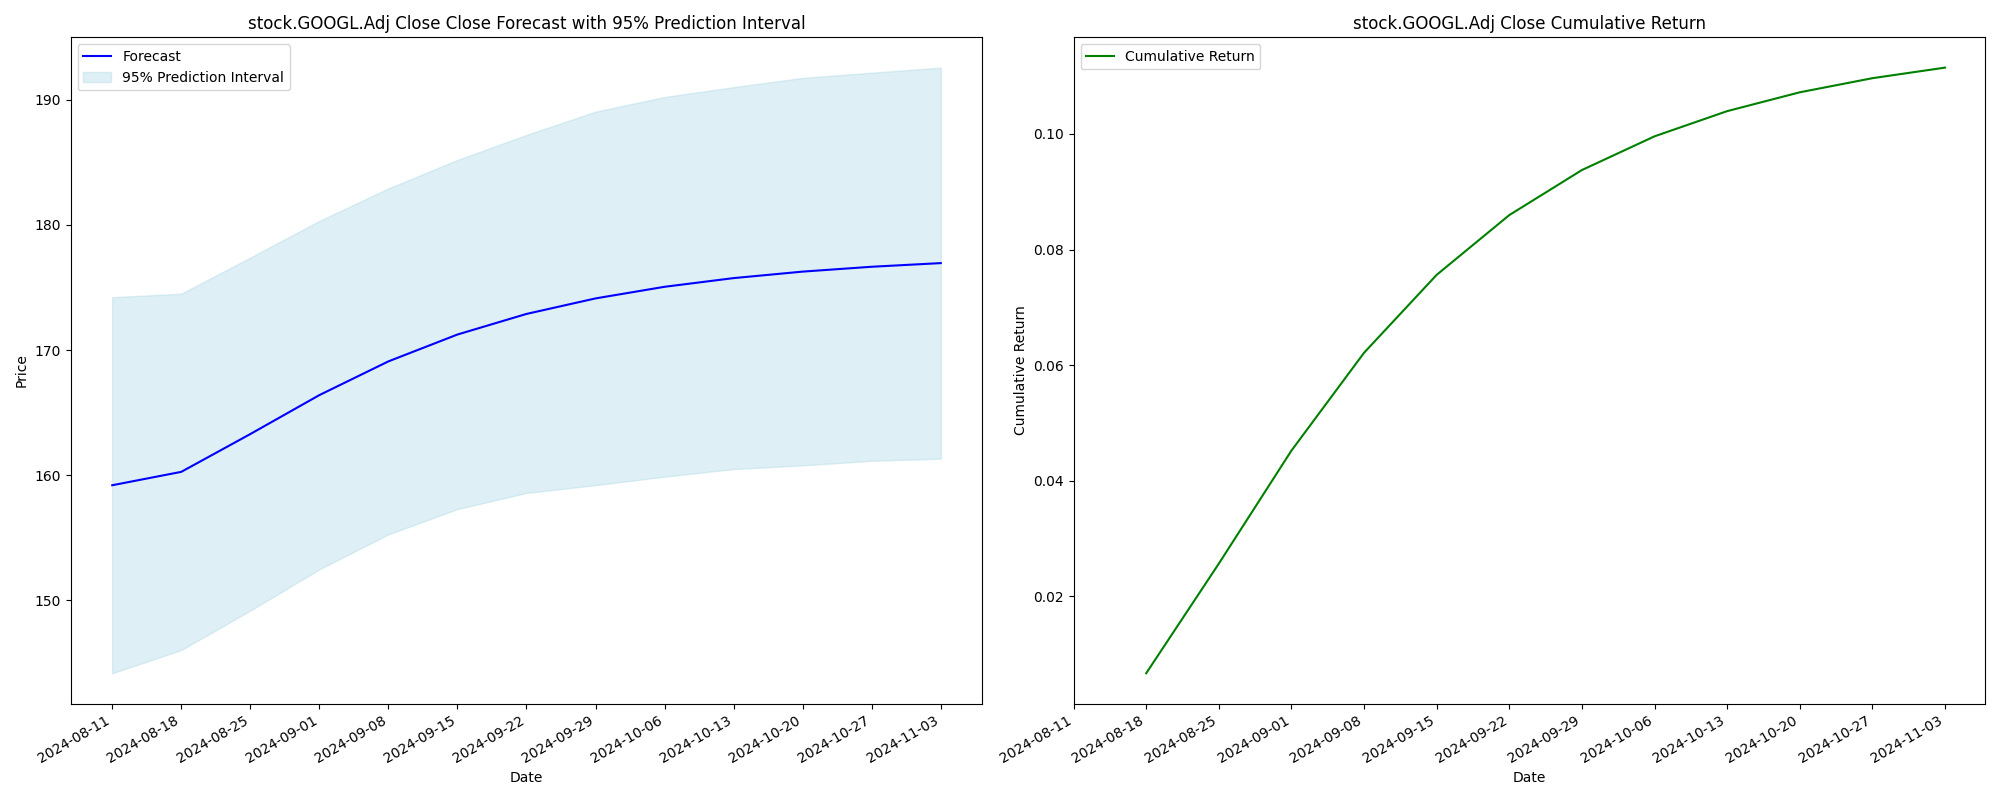
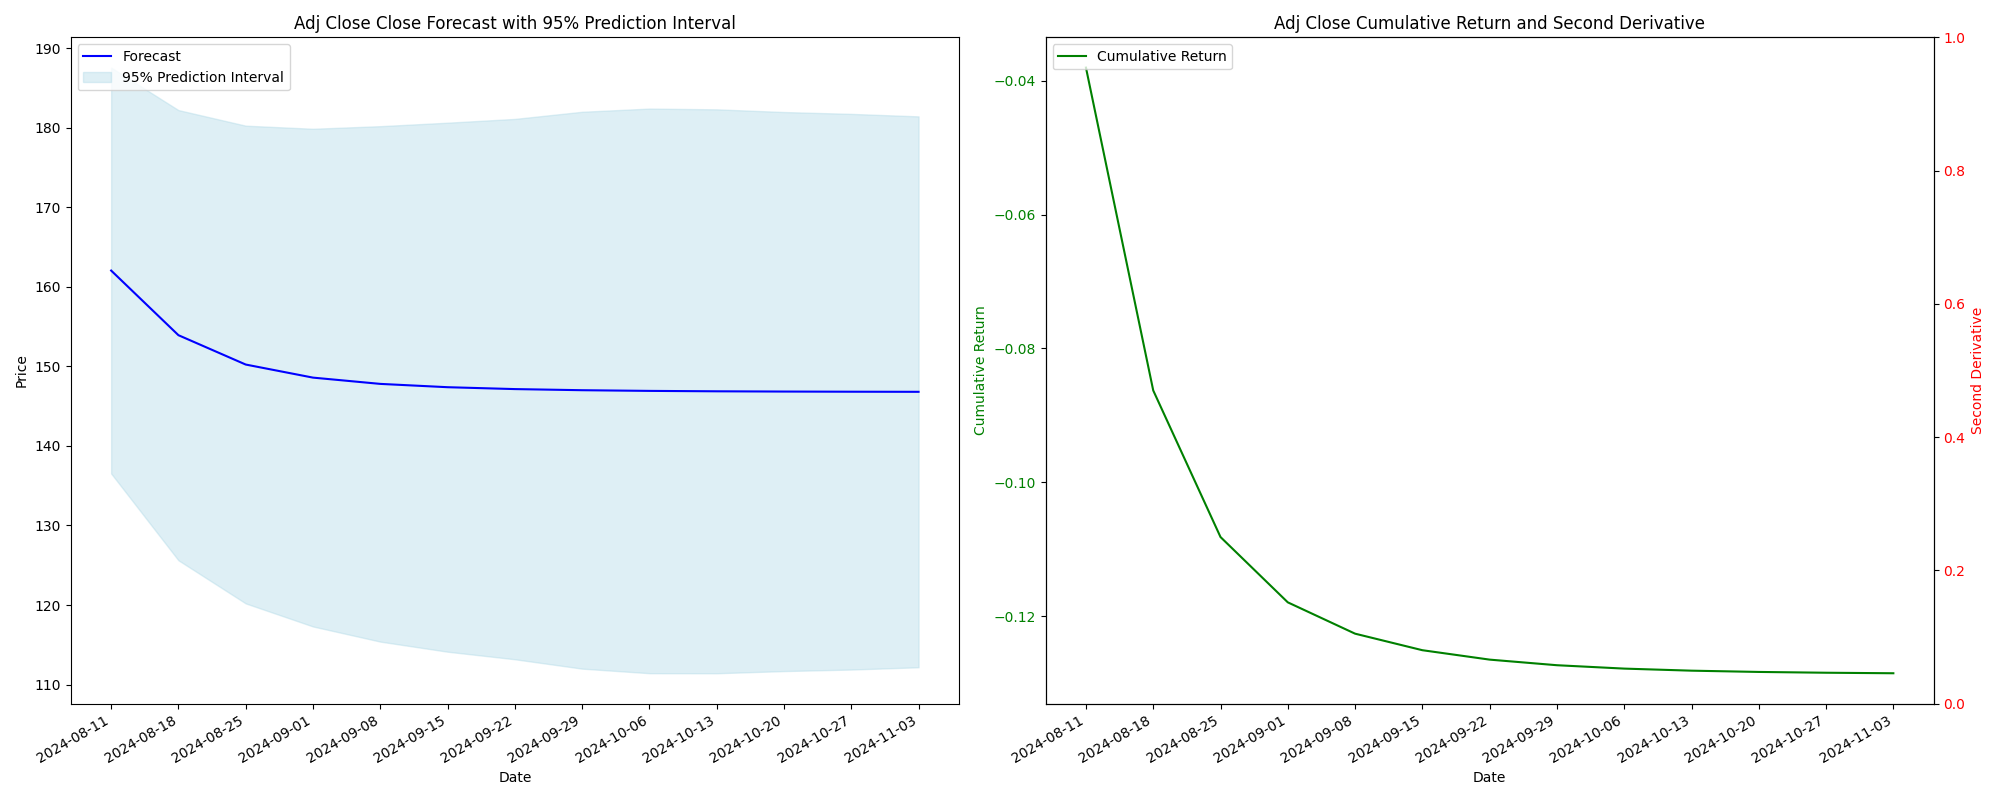
removed AdjClose, kept only Adj Close

diff --git a/CNN_LSTM/visualization.py b/CNN_LSTM/visualization.py
@@ -20,53 +20,13 @@ from constants import *
 
 import matplotlib.dates as mdates
 
-def plot_predictions_with_intervals(y_pred, lower_bound_res, upper_bound_res, dates, feature_names):
+def plot_predictions_with_intervals_and_returns(y_pred, lower_bound_res, upper_bound_res, dates, feature_names, last_actual_price):
     forecast_length = len(dates)
     y_pred = y_pred[-forecast_length:]
     lower_bound_res = lower_bound_res[-forecast_length:]
     upper_bound_res = upper_bound_res[-forecast_length:]
     dates = dates[-forecast_length:]
-
     assert len(dates) == forecast_length, f"Expected {forecast_length} dates, got {len(dates)}"
-
-    n_features = y_pred.shape[1]
-    fig, axes = plt.subplots(n_features, 1, figsize=(12, 6*n_features), sharex=True)
-    
-    if n_features == 1:
-        axes = [axes]
-    
-    for i, (ax, feature) in enumerate(zip(axes, feature_names)):
-        y_pred_trimmed = y_pred[:, i]
-        
-        # Plot the forecast line
-        ax.plot(dates, y_pred_trimmed, label='Forecast', color='blue')
-        
-        # Plot 95% prediction intervals
-        ax.fill_between(dates, lower_bound_res[:, i], upper_bound_res[:, i], color='lightblue', alpha=0.4, label='95% Prediction Interval')
-        
-        ax.set_title(f'{feature} Close Forecast with 95% Prediction Interval')
-        ax.set_xlabel('Date')
-        ax.set_ylabel('Value')
-        ax.legend(loc='upper left')
-        
-        # Set x-axis ticks and format
-        ax.set_xticks(dates)
-        ax.xaxis.set_major_formatter(mdates.DateFormatter('%Y-%m-%d'))
-
-    plt.gcf().autofmt_xdate()  # Rotate date labels
-    plt.tight_layout()
-    plt.savefig('forecast_intervals.png')
-    plt.close(fig)  # Close the figure to free up memory
-
-def plot_predictions_with_intervals_and_returns(y_pred, lower_bound_res, upper_bound_res, dates, feature_names):
-    forecast_length = len(dates)
-    y_pred = y_pred[-forecast_length:]
-    lower_bound_res = lower_bound_res[-forecast_length:]
-    upper_bound_res = upper_bound_res[-forecast_length:]
-    dates = dates[-forecast_length:]
-
-    assert len(dates) == forecast_length, f"Expected {forecast_length} dates, got {len(dates)}"
-
     n_features = y_pred.shape[1]
     fig, axes = plt.subplots(n_features, 2, figsize=(20, 8*n_features), sharex='col')
     
@@ -79,41 +39,54 @@ def plot_predictions_with_intervals_and_returns(y_pred, lower_bound_res, upper_b
         # Plot 1: Price Forecast with Intervals
         ax_price.plot(dates, y_pred_trimmed, label='Forecast', color='blue')
         ax_price.fill_between(dates, lower_bound_res[:, i], upper_bound_res[:, i], color='lightblue', alpha=0.4, label='95% Prediction Interval')
-        
-        # Calculate rate of change
-        roc = pd.Series(y_pred_trimmed).pct_change()
-        # Calculate moving average of rate of change (you can adjust the window size)
-        roc_ma = roc.rolling(window=5).mean()
-        
-        # Find crossover points
-        crossover = np.where((roc.shift(1) > roc_ma.shift(1)) & (roc <= roc_ma))[0]
-        
-        # Draw vertical lines at crossover points
-        for idx in crossover:
-            if idx < len(dates):
-                ax_price.axvline(x=dates[idx], color='red', linestyle='--', alpha=0.7)
-                ax_return.axvline(x=dates[idx], color='red', linestyle='--', alpha=0.7)
-        
         ax_price.set_title(f'{feature} Close Forecast with 95% Prediction Interval')
         ax_price.set_xlabel('Date')
         ax_price.set_ylabel('Price')
         ax_price.legend(loc='upper left')
         
-        # Plot 2: Cumulative Returns
-        returns = pd.Series(y_pred_trimmed).pct_change()
-        cumulative_returns = (1 + returns).cumprod() - 1
-        ax_return.plot(dates, cumulative_returns, label='Cumulative Return', color='green')
+        # Plot 2: Cumulative Returns and Second Derivative
+        # Calculate cumulative returns based on the last actual price
+        cumulative_returns = (y_pred_trimmed - last_actual_price) / last_actual_price
         
-        ax_return.set_title(f'{feature} Cumulative Return')
+        # Calculate the second derivative
+        second_derivative = pd.Series(cumulative_returns).diff().diff()
+        
+        # Plot cumulative returns
+        ax_return.plot(dates, cumulative_returns, label='Cumulative Return', color='green')
+        ax_return.set_ylabel('Cumulative Return', color='green')
+        ax_return.tick_params(axis='y', labelcolor='green')
+        
+        # Create a twin axis for the second derivative
+        ax_second_derivative = ax_return.twinx()
+        ax_second_derivative.set_ylabel('Second Derivative', color='red')
+        ax_second_derivative.tick_params(axis='y', labelcolor='red')
+        
+        # Find the inflection point (where second derivative becomes negative)
+        inflection_points = second_derivative[second_derivative < 0].index
+        if len(inflection_points) > 0:
+            inflection_point = inflection_points[0]
+            inflection_date = dates[inflection_point]
+            ax_return.axvline(x=inflection_date, color='red', linestyle='--', label='Inflection Point')
+            
+            # Adjust the y-axis of the second derivative to center 0 at the inflection point
+            max_abs_value = max(abs(second_derivative.min()), abs(second_derivative.max()))
+            ax_second_derivative.set_ylim(-max_abs_value, max_abs_value)
+            
+            # Add a horizontal line at y=0 for the second derivative
+            ax_second_derivative.axhline(y=0, color='gray', linestyle=':', alpha=0.7)
+        
+        ax_return.set_title(f'{feature} Cumulative Return and Second Derivative')
         ax_return.set_xlabel('Date')
-        ax_return.set_ylabel('Cumulative Return')
-        ax_return.legend(loc='upper left')
+        
+        # Combine legends
+        lines_return, labels_return = ax_return.get_legend_handles_labels()
+        ax_return.legend(lines_return, labels_return, loc='upper left')
         
         # Format x-axis for both plots
         for ax in [ax_price, ax_return]:
             ax.set_xticks(dates)
             ax.xaxis.set_major_formatter(mdates.DateFormatter('%Y-%m-%d'))
-
+    
     plt.gcf().autofmt_xdate()  # Rotate date labels
     plt.tight_layout()
     plt.savefig('forecast_intervals_and_returns.png')

diff --git a/CNN_LSTM/evaluation.py b/CNN_LSTM/evaluation.py
@@ -2,7 +2,13 @@ from .training import train_model
 from .CNN_TS import LSTMEncoderDecoderAttention
 from imports import *
 from constants import *
-from .visualization import plot_predictions_with_intervals, plot_predictions_with_intervals_and_returns
+from .visualization import plot_predictions_with_intervals_and_returns
+
+def translate_column_name(column_name):
+    # Split the string into its components
+    components = column_name.split('.')
+    # Return as a tuple matching the DataFrame's multi-level index structure
+    return tuple(components)
 
 # Function to split sequence for LSTM
 def split_sequence(sequence, look_back, forecast_range, forecast_indices):
@@ -260,14 +266,22 @@ def backtest_and_evaluate(study, combined_df, scaler, features, forecast_feature
     last_date = combined_df.index[-1]
     date_range = pd.date_range(start=last_date, periods=FORECAST_RANGE, freq='W')
 
-    plot_predictions_with_intervals(
-        yhat_forecast_inverse, 
-        lower_bounds_residuals, 
-        upper_bounds_residuals, 
-        date_range, 
-        forecast_features
+    # Use this to get the last actual price
+    # Translate it
+    # Translate the forecast feature name
+    forecast_feature_tuple = translate_column_name(forecast_features[0])
+
+    # Get the last actual price
+    last_actual_price = combined_df[forecast_feature_tuple].iloc[-FORECAST_RANGE-1]
+
+    # Call the plotting function
+    plot_predictions_with_intervals_and_returns(
+        yhat_forecast_inverse,  # This is y_pred in the function signature
+        lower_bounds_residuals,  # This is lower_bound_res
+        upper_bounds_residuals,  # This is upper_bound_res
+        date_range,  # This is dates
+        [forecast_feature_tuple[2]],  # This is feature_names, which should be ['Adj Close']
+        last_actual_price
     )
-    plot_predictions_with_intervals_and_returns(yhat_forecast_inverse, lower_bounds_residuals, upper_bounds_residuals, date_range, forecast_features)
-    #plot_predictions_with_intervals(yhat_forecast_inverse, lower_bounds_residuals, upper_bounds_residuals, date_range, forecast_features, std_devs_time_step)
 
 

diff --git a/constants.py b/constants.py
@@ -10,9 +10,10 @@ start_date = end_date - timedelta(days=365*5)  # 5 years of data
 
 debug = False
 
-NUM_SIMULATIONS = 3  # or any other number you prefer
-N_TRIALS = 10
-NUM_EPOCHS = 20
+NUM_SIMULATIONS = 10  # or any other number you prefer
+#should be beased on len features
+N_TRIALS = 40
+NUM_EPOCHS = 50
 LOOK_BACK = 156
 FORECAST_RANGE = 13
 
@@ -44,44 +45,22 @@ tickers_combined = [*tickers_all,*tickers_price]
 # Define your parameters
 forecast_features = ['stock.GOOGL.Adj Close']
 
-sector_etf_features = [
-    "stock.XLK.AdjClose",
-    "stock.XLV.AdjClose",
-    "stock.XLF.AdjClose",
-    "stock.XLY.AdjClose",
-    "stock.XLP.AdjClose",
-    "stock.XLE.AdjClose",
-    "stock.XLI.AdjClose",
-    "stock.XLB.AdjClose",
-    "stock.XLU.AdjClose",
-    "stock.XLRE.AdjClose",
-    "stock.XLC.AdjClose"
-]
-
-other_features = [
-    "stock.VIX.AdjClose"
-]
-
-
-
 # Define indicators
 indicators = ['T10Y3M', 'EFFR']
 
 # Base features to always include
 base_features = [
+    *forecast_features,
     'date.quarter.Q1',
     'date.quarter.Q2',
     'date.quarter.Q3',
-    'date.quarter.Q4',
-    *sector_etf_features,
-    *other_features
+    'date.quarter.Q4'
 ]
 
 # Generate the final features list
 features = create_feature_list(tickers_all, tickers_price, indicators, base_features)
 
 # Output the final features list for inspection
-print(features)
 print(features)
 #ffill, balance sheet info, fundamentals
 #inflation, gdp, unrate, confidence

diff --git a/readme.md b/readme.md
@@ -9,3 +9,4 @@ optimal lags identified via max absolute significant Median Correlation over mov
 Features
 * Significant Median correlations over moving windows used to identify lags to test for
 * t-tests used to determine whether or not mape reduced significantly enough to include a feature.
+* inflection point where csum roc descends
